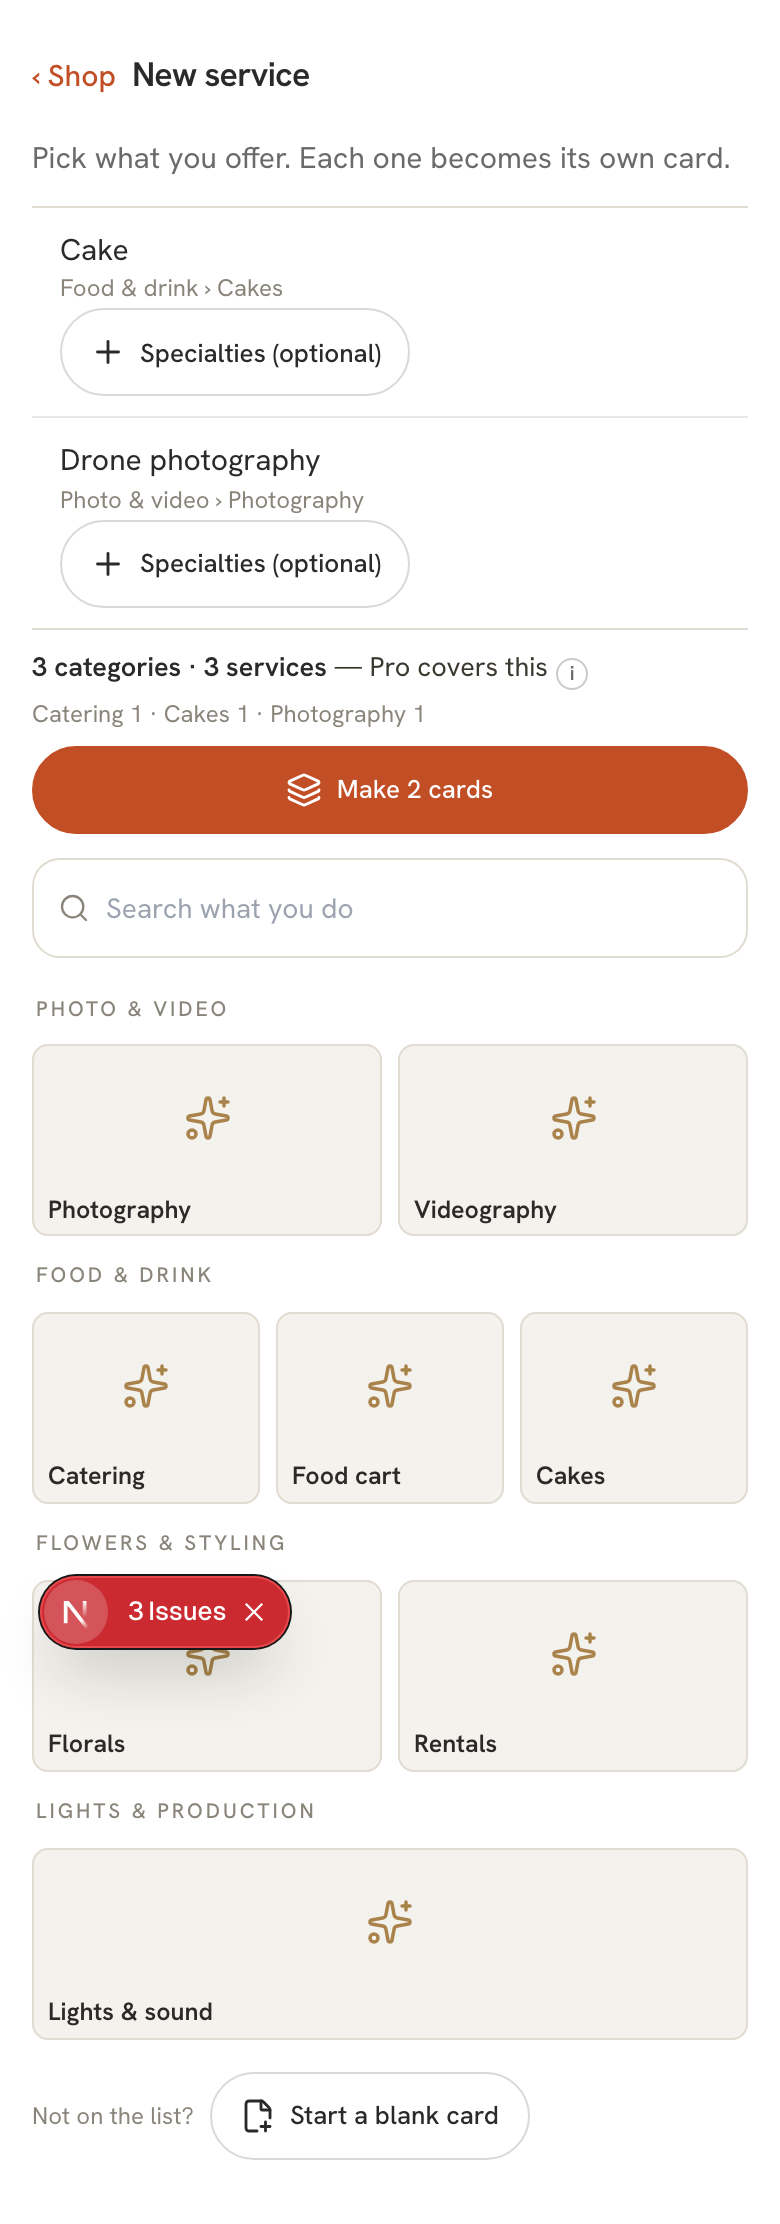
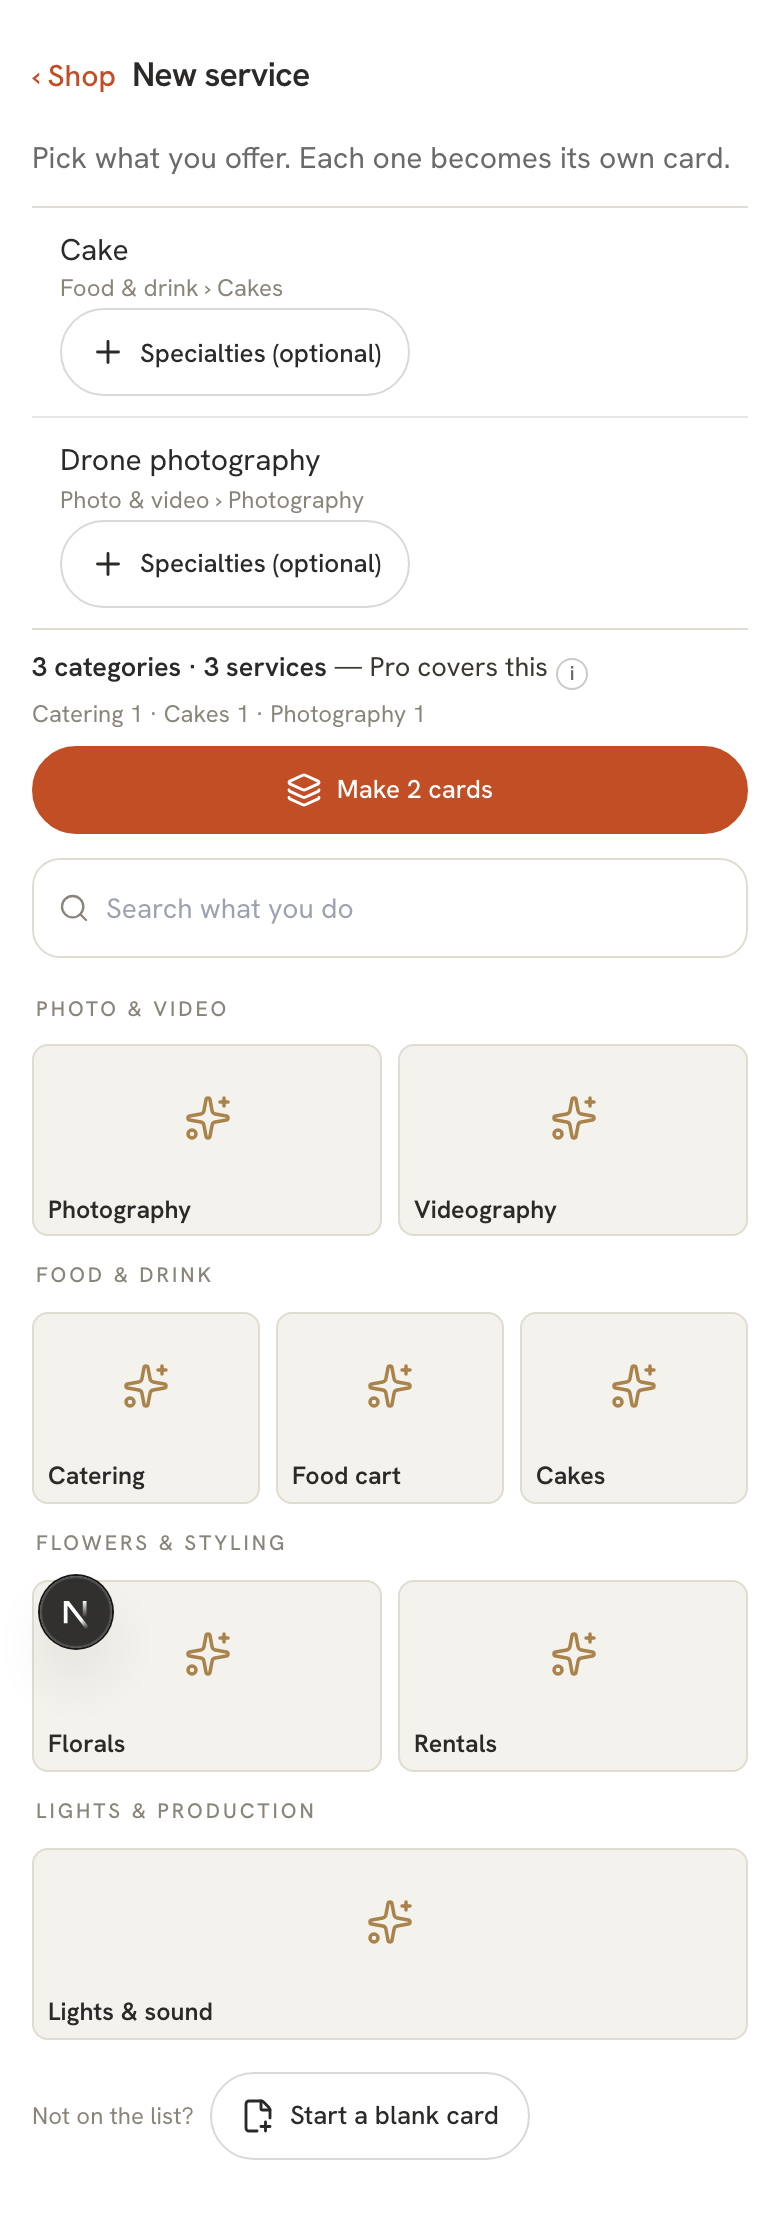
fix(services): one remove control on an open Add-a-service row — the specialties bar's Remove, as the prototype draws

Changed region(s): [[0.0308, 0.6826, 0.3692, 0.7446]]

diff --git a/apps/web/lib/card-queue.test.ts b/apps/web/lib/card-queue.test.ts
@@ -110,6 +110,8 @@ test('each picked service shows ITS OWN "+ Specialties (optional)" and the meter
   const add = read('app/vendor-dashboard/services/new/_components/add-service-picker.tsx');
   assert.match(add, /<Specialties\s+service=\{\{ key: p\.key, label: p\.label \}\}\s+fields=\{specialties\[p\.key\]!\}/);
   assert.match(add, /<CoverageMeter list=\{meterList\} \/>/);
+  // ONE remove control on an open row: the specialties bar's Remove (prototype fvBlock), never also the hover trash.
+  assert.match(add, /hover=\{openSpecialty !== p\.key\}/);
   assert.match(add, /\[\.\.\.onShop, \.\.\.picked\.map\(\(p\) => p\.key\)\]/, 'the meter counts what is on the shop AND the new picks');
   const cards = read('app/open-shop/_components/service-cards.tsx');
   assert.match(cards, /export function CoverageMeter\(\{ list \}: \{ list: readonly MeterService\[\] \}\) \{\s+const line = coverageLine\(list\);/);

diff --git a/apps/web/app/vendor-dashboard/services/new/_components/add-service-picker.tsx b/apps/web/app/vendor-dashboard/services/new/_components/add-service-picker.tsx
@@ -141,6 +141,10 @@ export function AddServicePicker({
                     label={`Remove ${p.label}`}
                     word="Remove"
                     onDelete={() => remove(p.key)}
+                    // ONE remove control: while this service's specialties are open, their bar carries the red Remove
+                    // (prototype `fvBlock`: ⌃ Specialties · Remove · ✓ Done), so the computer's hover trash steps aside.
+                    // The phone's swipe stays.
+                    hover={openSpecialty !== p.key}
                     radiusClass="rounded-none"
                     surfaceClass="bg-[var(--m-paper)]"
                   >
